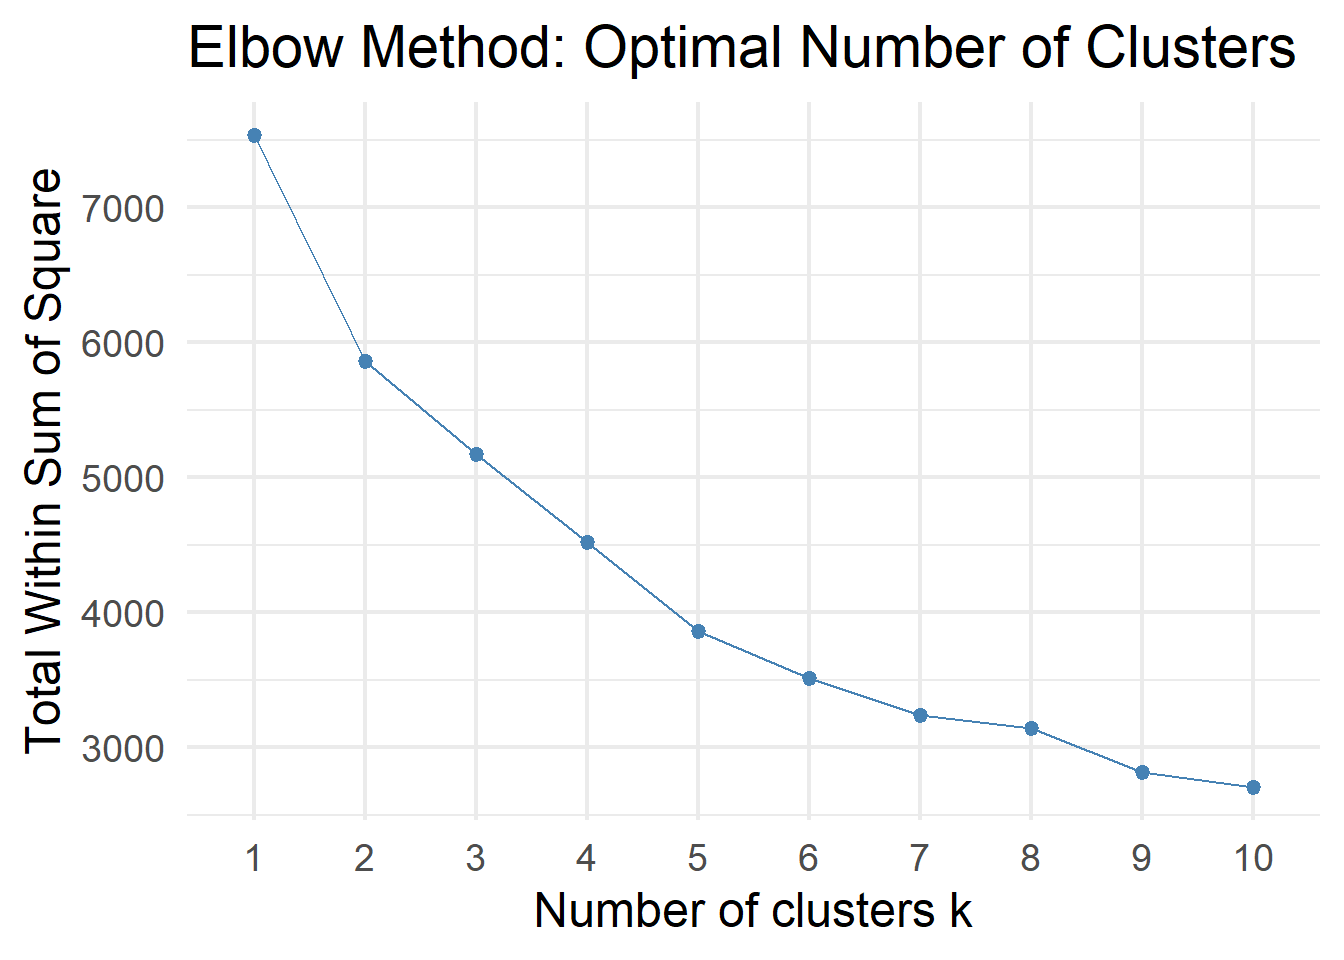
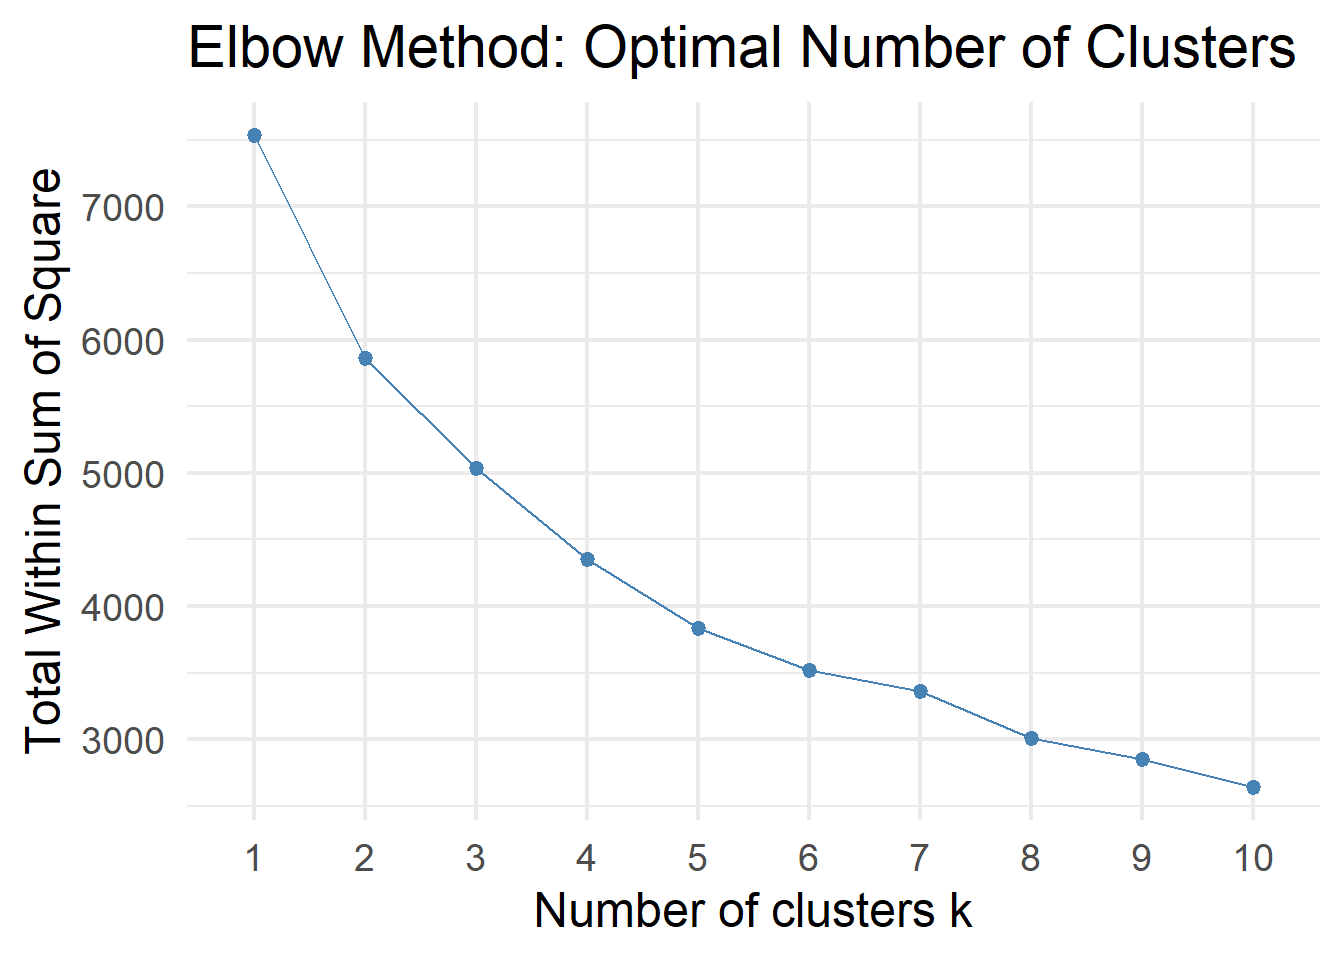
Standardized all navigation links to .html for reliability

diff --git a/Lab01.html b/Lab01.html
@@ -378,7 +378,7 @@ pre > code.sourceCode > span > a:first-child::before { text-decoration: underlin
 <span id="cb29-5"><a href="#cb29-5" aria-hidden="true" tabindex="-1"></a><span class="fu">cor</span>(x,y) <span class="co"># Correlation of x and y</span></span></code></pre></div><button title="Copy to Clipboard" class="code-copy-button"><i class="bi"></i></button></div>
 </details>
 <div class="cell-output cell-output-stdout">
-<pre><code>[1] 0.9962765</code></pre>
+<pre><code>[1] 0.9966483</code></pre>
 </div>
 <details class="code-fold">
 <summary>Code</summary>

diff --git a/Lab02.html b/Lab02.html
@@ -591,7 +591,7 @@ pre > code.sourceCode > span > a:first-child::before { text-decoration: underlin
 package 'ISLR' successfully unpacked and MD5 sums checked
 
 The downloaded binary packages are in
-    C:\Users\alhas\AppData\Local\Temp\Rtmp48EDGr\downloaded_packages</code></pre>
+    C:\Users\alhas\AppData\Local\Temp\RtmpMHu6NK\downloaded_packages</code></pre>
 </div>
 <details class="code-fold">
 <summary>Code</summary>